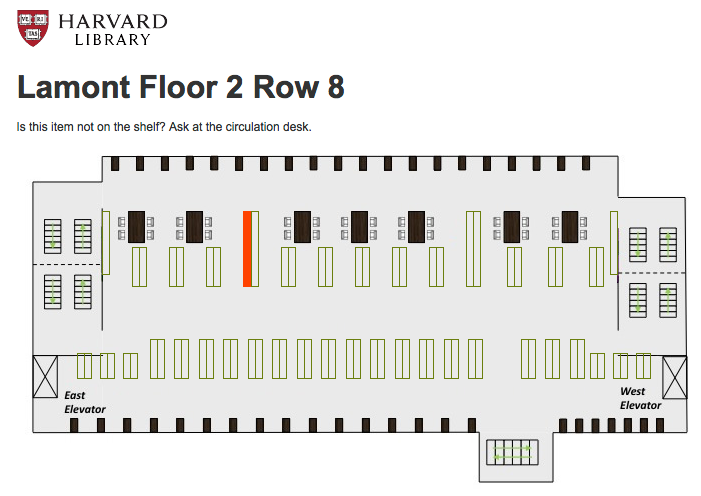
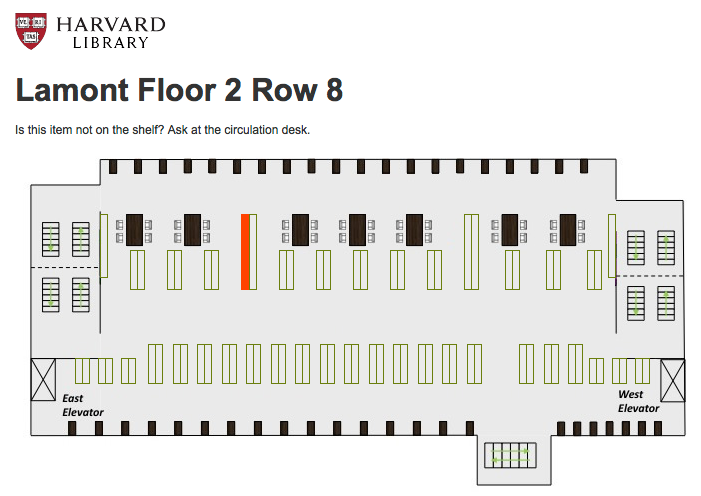
landing page refresh, adjusted Lamont 2 map

diff --git a/web/css/style.css b/web/css/style.css
@@ -291,7 +291,8 @@ h3.type-leading{
 /*/ about us page/*/
 
 .text-block {
-	color:#ff5b27;
+	/*color:#ff5b27;*/
+	color:#666666;
 
 	font-weight: bold;
 

diff --git a/web/maps/lam/2.html b/web/maps/lam/2.html
@@ -23,7 +23,7 @@ body{
 }
 
 .row2 {
-	margin:6px 5px 10px 60px;
+	margin:8px 5px 10px 60px;
 	width:600px;
 	float:left;
 }
